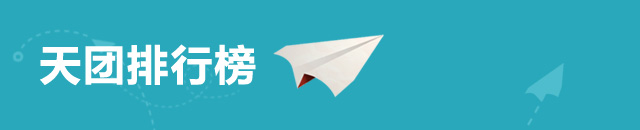
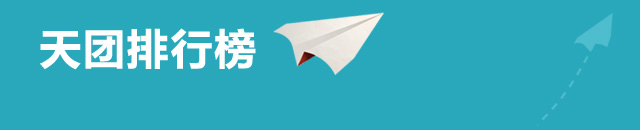
123123

diff --git a/static/mobile/css/com.css b/static/mobile/css/com.css
@@ -132,21 +132,21 @@ textarea{resize:none;overflow:auto;}
 	.phb{ background:#f1f1f1; width:100%}
 	.phb img{ width:100%;}
 		.phbtitle{ position:relative}
-		.phbtitle h2{ position:absolute; left:14%; top:8%; width:5.5%; color:#fff; font-size:12px; font-weight:400; height:80%; text-align:center;}
+		.phbtitle h2{ position:absolute; left:14%; top:5%; width:5.5%; color:#fff; font-size:12px; font-weight:400; height:80%; text-align:center;}
 		.phbcon{ width:100%; position:relative}
-		.phbcon_left{ position:absolute; left:5%; top:5%; width:80%;}
-			.phbleft{ float:left; width:30%}
-			.phbleft h2{ color:#e85742; font-size:12px; font-weight:400;}
-			.phbleft img{ width:80%; margin:5%;}
-			.phbright{ float:left; width:70%}
-				.phbright p{ line-height:14px; color:#848484; font-size:12px;}
+		.phbcon_left{ position:absolute; left:2%; top:5%; width:80%;}
+			.phbleft{ float:left; width:30%; margin:0 5% 0 0;}
+			.phbleft h2{ color:#e85742; font-size:12px; font-weight:400; text-align:center}
+			.phbleft img{ width:90%; margin:10% 5%;}
+			.phbright{ float:left; width:65%}
+				.phbright p{ line-height:16px; color:#848484; font-size:12px;}
 				 .phbright ul.sxt li{ float:left; width:20%; margin:2% 2% 0 0;}
 				 .phbright ul.sxt li a{ display:inline-block; text-decoration:none; text-align:center; width:100%;}
 				 .phbright ul.sxt li a img{ width:80%; text-align:center; border:none;}
 				 .phbright ul.sxt li a div{ width:100%; color:#848484; font-size:12px; font-weight:400; white-space: nowrap;text-overflow:ellipsis; overflow:hidden;}
 		.phbcon_right{ position:absolute; left:80%; top:5%; width:20%; text-align:center}
 		.phbcon_right a img{ width:60%; margin:2% 0; border:0;}
-		.phbcon_right .fx{ width:70%; margin:10px auto; position:relative}
+		.phbcon_right .fx{ width:70%; margin:30% auto 0; position:relative}
 		.phbcon_right .fx img{ width:100%; vertical-align: bottom;}
 		.phbcon_right .fx a{position:absolute; width:45%; height:70%; display:inline-block;top:30%; z-index:999}
 		.phbcon_right .fx a img{ border:0;width:100%; vertical-align: bottom;}
@@ -313,8 +313,8 @@ input.jcDate{cursor:pointer;}
 
 .page{ width:284px; margin:20px auto; height:20px; line-height:20px; font-size:20px;}
 .page a,.page b,.page span{ float:left; margin:0 30px 0 0; text-decoration:none;color:#414141;}
-.page b,.page a:hover{ border-bottom:#e85742 1px solid; color:#e85742;}
-.page a.icon_pre{ height:20px; width:13px; background:url(../images/icon_pre.png) center no-repeat; display:inline-block;}
+.page b,.page a:hover{ border-bottom:#414141 1px solid; color:#414141;}
+.page a.icon_pre{ height:20px; width:13px; background:url(../images/icon_pre.png) center no-repeat; display:inline-block; }
 .page a.icon_next{ height:20px; width:13px; background:url(../images/icon_next.png) center no-repeat; display:inline-block; margin:0}
 
 
